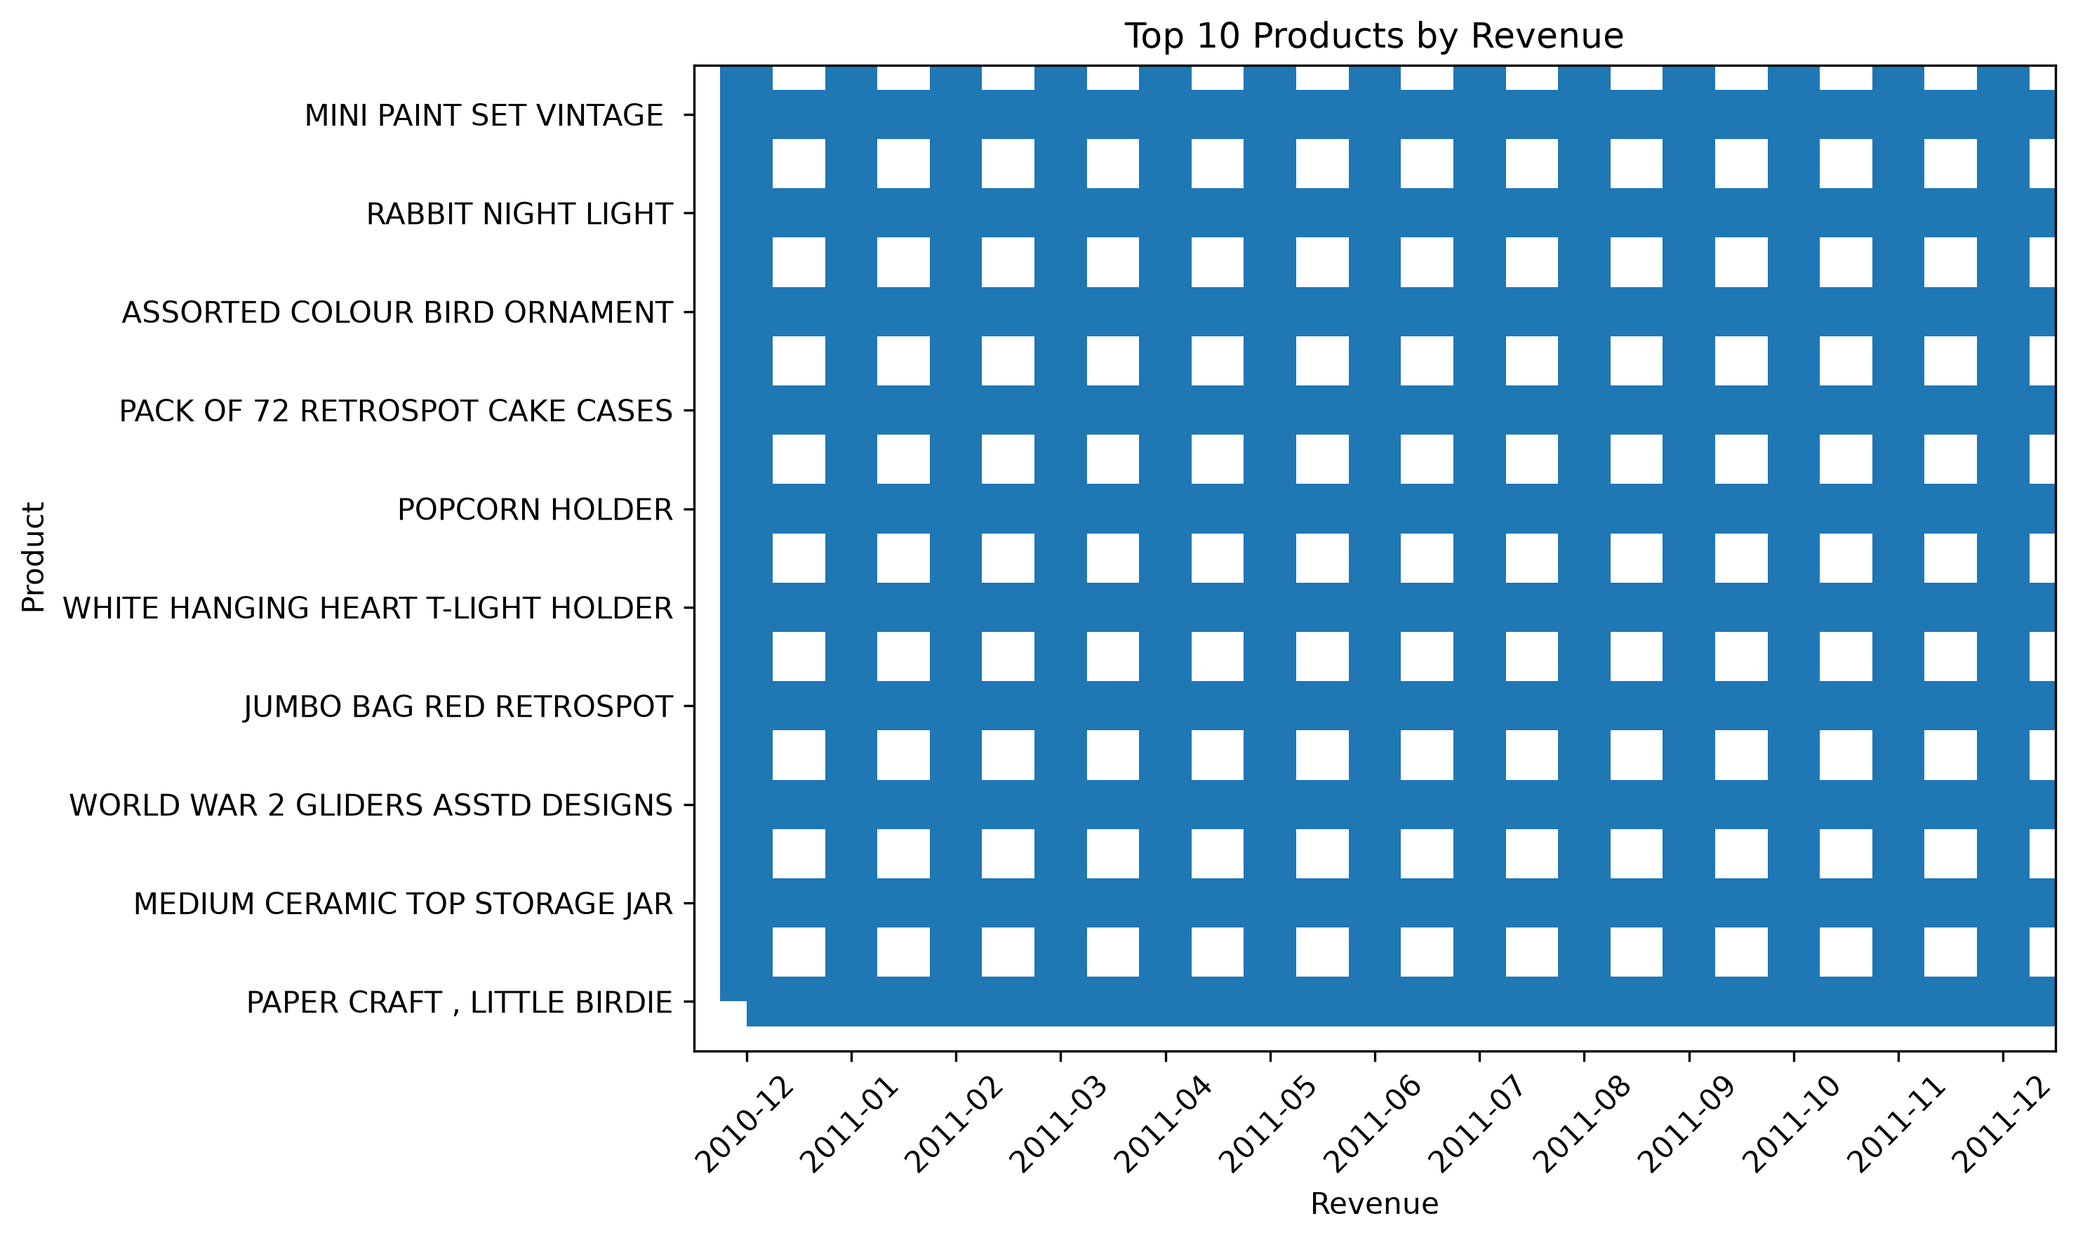
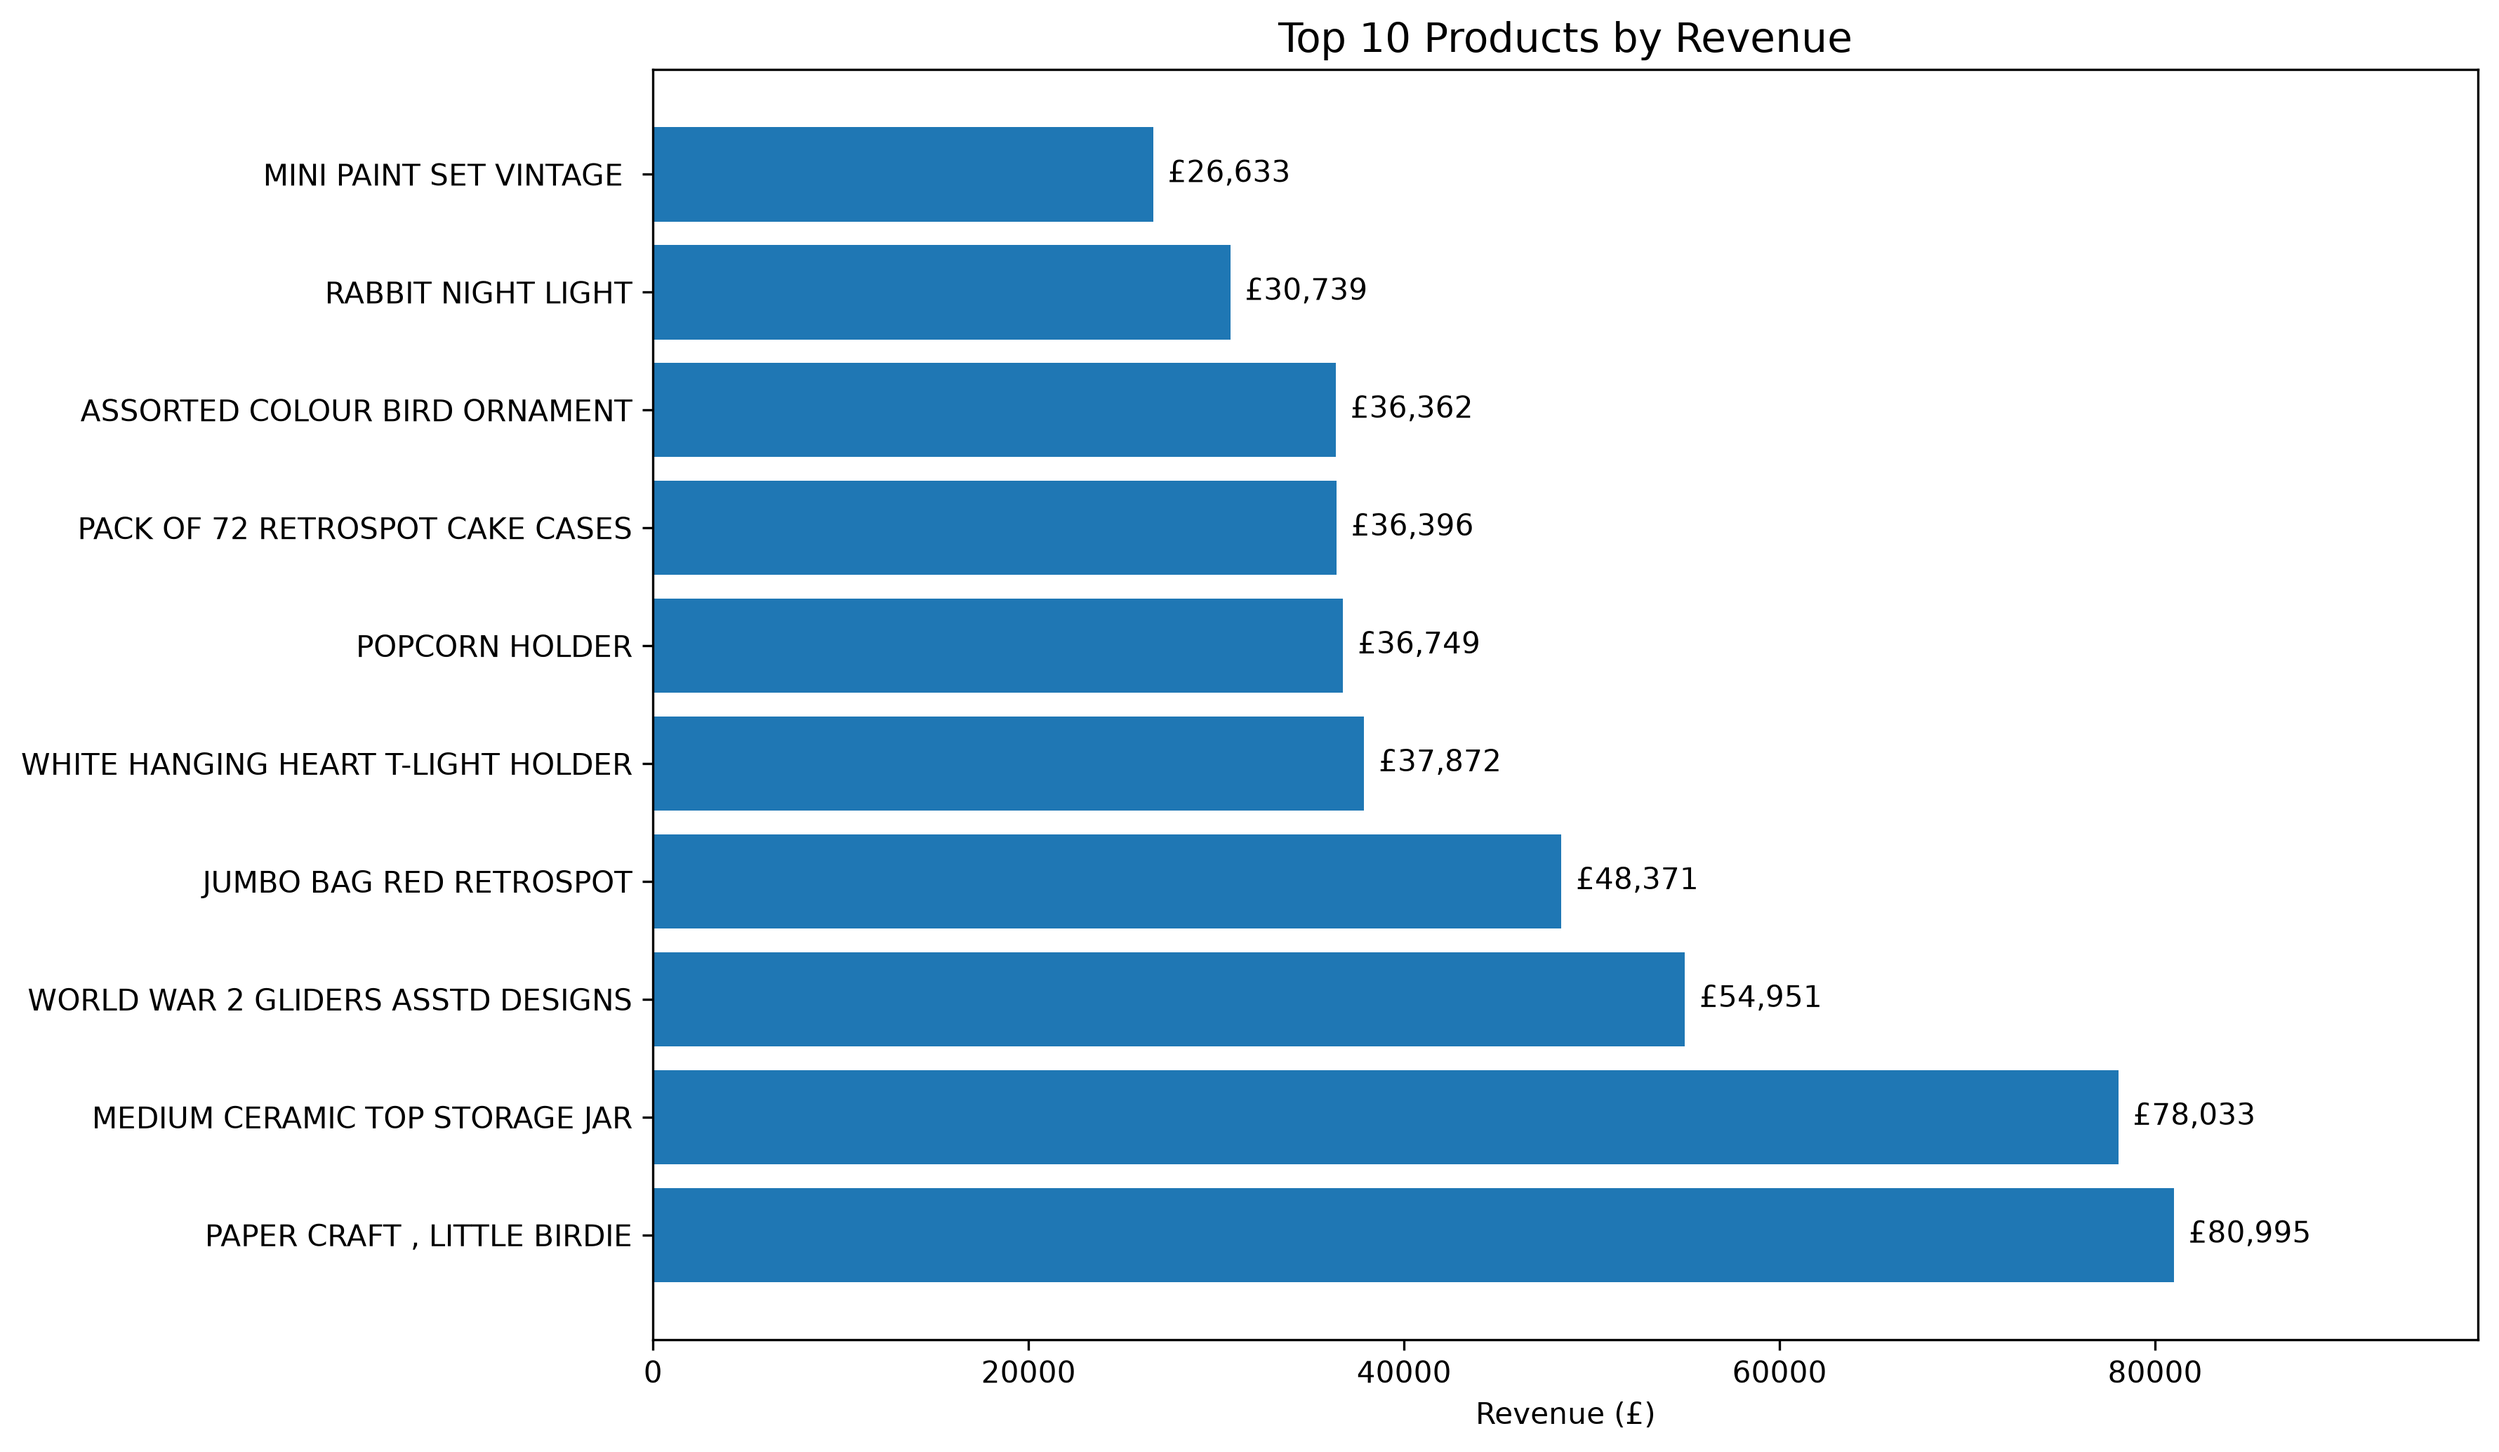
Update top products chart

diff --git a/README.md b/README.md
@@ -1,98 +1,98 @@
 # Retail Sales Analysis
 
-## Project Overview
-This project analyzes online retail sales data using Python to identify sales trends, top-performing products, and leading markets.
+## Overview
+This project explores online retail sales data to understand revenue performance across products, 
+months, and countries. It uses Python and SQL for data cleaning, analysis, visualization, 
+and weekly revenue forecasting.
+
+## Tools
+- Python
+- Pandas
+- NumPy
+- Matplotlib
+- SQLite
+- Scikit-learn
 
 ## Data Cleaning
 - Removed duplicate records.
-- Excluded cancelled transactions from ordinary sales analysis.
-- Excluded rows with non-positive quantities or prices.
-- Excluded selected non-product transactions, including postage, fees, and accounting adjustments.
+- Excluded cancelled transactions.
+- Removed records with non-positive quantities or prices.
+- Excluded selected non-product transactions.
+- Calculated revenue using quantity multiplied by unit price.
 
 ## Key Findings
-- **Total product revenue:** 10,255,184.18
-- **Top product by revenue:** REGENCY CAKESTAND 3 TIER — 174,156.54
-- **Best-performing month:** November 2011 — 1,453,295.98
-- **Top country:** United Kingdom — 8,726,832.53
 
-## Tools Used
-- Python
-- Pandas
-- Matplotlib
-- PyCharm
+- Total product revenue: £10,255,184.18
+- Top product: Regency Cakestand 3 Tier (£174,156.54)
+- Best-performing month: November 2011 (£1,453,295.98)
+- Top country: United Kingdom (£8,726,832.53)
 
-## Visualizations
-Charts showing monthly revenue, top countries and the top 10 products by revenue will be included here.
+## Sales Analysis
 
 ### Monthly Revenue
 ![Monthly Revenue](outputs/monthly_revenue.png)
 
-### Top 10 Products by Revenue
+### Daily Revenue
+![Daily Revenue](outputs/daily_revenue.png)
+
+### Weekly Revenue
+![Weekly Revenue](outputs/weekly_revenue.png)
+
+### Top 10 Products
 ![Top Products](outputs/top_products.png)
 
-### Top 10 Countries by Revenue
+### Top 10 Countries
 ![Top Countries](outputs/top_countries.png)
-
-## SQL Business Analysis
-
-### 1. Which products generate the most revenue?
-- Regency Cakestand 3 Tier ranked first, generating **174,156.54** in revenue.
-- Paper Craft, Little Birdie ranked second, generating **168,469.60**.
-
-### 2. Which month generates the most revenue?
-- **November 2011** was the highest-revenue month, generating **1,453,295.98**.
-
-### 3. Which countries generate the most revenue?
-- The **United Kingdom** ranked first, generating **8,726,832.53**.
-- The Netherlands ranked second, generating **283,889.34**.
-
-*Note: Revenue figures reflect the project's data-cleaning rules and are not necessarily official accounting revenue.*
 
 ## SQL Analysis
 
-### Objective
-Analyze retail sales data using SQLite and SQL to identify revenue trends across products, months, and countries.
+Used SQLite to answer three business questions:
 
-### Tools
-Python, Pandas, SQLite, SQL.
+1. Which products generate the most revenue?
+2. Which month has the highest revenue?
+3. Which countries generate the most revenue?
 
-### Key Findings
-- **Top Product:** Regency Cakestand 3 Tier — 174,156.54 revenue.
-- **Best Month:** November 2011 — 1,453,295.98 revenue.
-- **Top Country:** United Kingdom — 8,726,832.53 revenue.
+SQL techniques included aggregation, GROUP BY, ORDER BY, date functions, and JOINs.
 
-### SQL Skills
-- Aggregation using `SUM()` and `GROUP BY`
-- Sorting and ranking using `ORDER BY` and `LIMIT`
-- Monthly analysis using `strftime()`
-- Combining tables using `JOIN`
+## Revenue Forecasting
 
-### Conclusion
-SQL analysis identified the leading products, strongest sales month, and highest-revenue country, complementing the project's Python analysis.
+Compared a baseline model with a Random Forest Regressor to forecast weekly revenue. 
+Model performance was evaluated using MAE and RMSE.
 
-*Revenue figures reflect the project's data-cleaning rules.
+![Forecast Comparison](outputs/forecast_comparison.png)
 
-## Time Series Analysis
+## Project Structure
 
-daily_revenue.png 
-weekly_revenue.png
+```text
+retail-sales-project/
+├── outputs/
+├── sql/
+│   └── sql_analysis.py
+├── main.py
+├── forecasting.py
+├── weekly_revenue.csv
+├── requirements.txt
+└── README.md
+```
 
-- **Aggregation:** Sales revenue was aggregated by day and week.
-- **Trend:** The weekly revenue chart and 4-week moving average indicated a generally upward trend.
-- **Training and testing:** The data was split chronologically, using 43 weeks for training and 11 weeks for testing.
-- **Seasonality:** A recurring seasonal pattern was not conclusively established from the available period.
+## How to Run
 
-**Conclusion:** Weekly revenue generally increased over the observed period. Further forecasting and seasonal analysis would help determine whether this trend continues.
+Install the required libraries:
 
+```bash
+pip install -r requirements.txt
+```
 
-![Monthly Revenue](outputs/monthly_revenue.png)
+Place `Retail_data.csv` in the project folder, then run:
 
-![Daily Revenue](outputs/daily_revenue.png)
+```bash
+python main.py
+python sql/sql_analysis.py
+python forecasting.py
+```
+Dataset: [UCI Online Retail Dataset](https://archive.ics.uci.edu/dataset/352/online+retail)
 
-![Weekly Revenue](outputs/weekly_revenue.png)
+---
 
-![Top Products](outputs/top_products.png)
-
-![Top Countries](outputs/top_countries.png)
-
-
+Note: Revenue figures are based on the project's cleaning rules and may differ from official accounting figures. 
+Forecasting results are exploratory.
